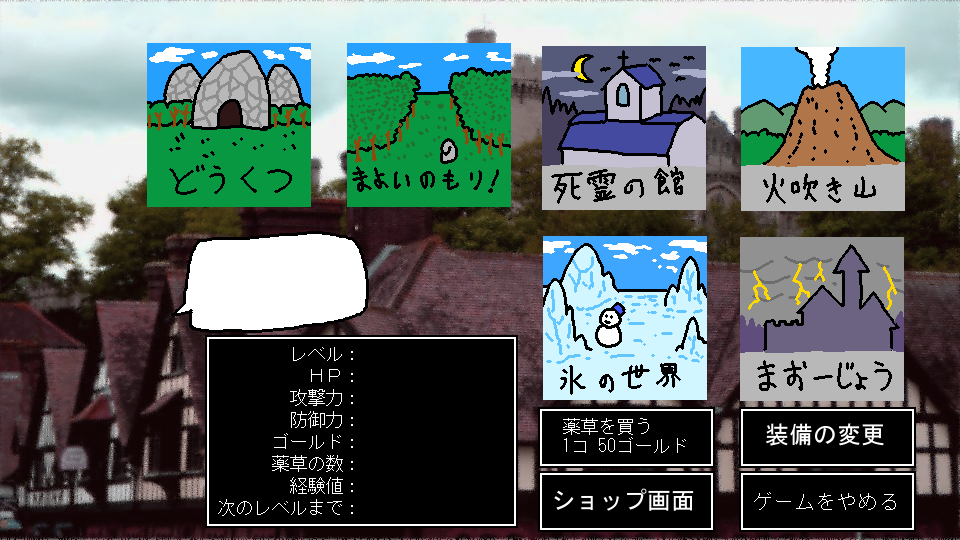
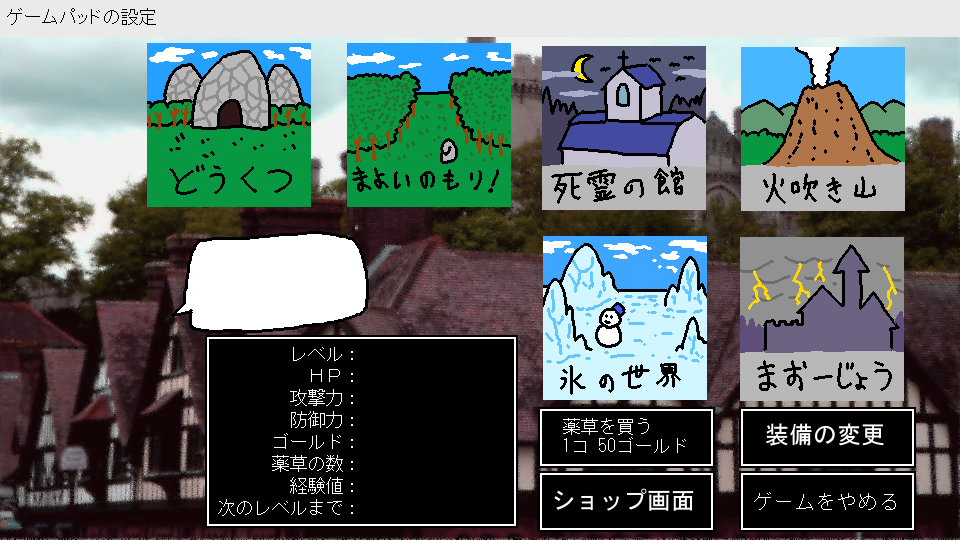
ゲームパッドのコンフィグ設定完成

diff --git a/scripts/Scene_Home.rb b/scripts/Scene_Home.rb
@@ -3,6 +3,7 @@ require_relative 'Cursor.rb'
 require_relative 'Fade_Effect.rb'
 require_relative 'Save_Data.rb'
 require_relative 'Scene_Base.rb'
+require_relative 'Scene_Key_Config.rb'
 require_relative 'Scene_Select_Battale.rb'
 include Save_Data
 
@@ -186,6 +187,11 @@ class Scene_Home < Scene_Base
       if @cursor.index == 9 then
         game_quit()
       end
+      
+      # ゲームパッドのコンフィグ設定
+      if mouse_widthin_button?("pad_config") then
+        @next_scene = Scene_Key_Config.new
+      end
     end
     
     # マウスカーソルホバー
@@ -354,6 +360,8 @@ class Scene_Home < Scene_Base
     @button["shop"] = [538, 471, 714, 531]       # ショップボタン
     @button["quit"] = [739, 471, 915, 531]       # ゲームをやめるボタン
     
+    # 上部メニューボタン
+    @button["pad_config"] = [0, 0, 160, 36]
   end
   
   # マウスカーソルがボタンの座標内に入っているかどうかを返します
